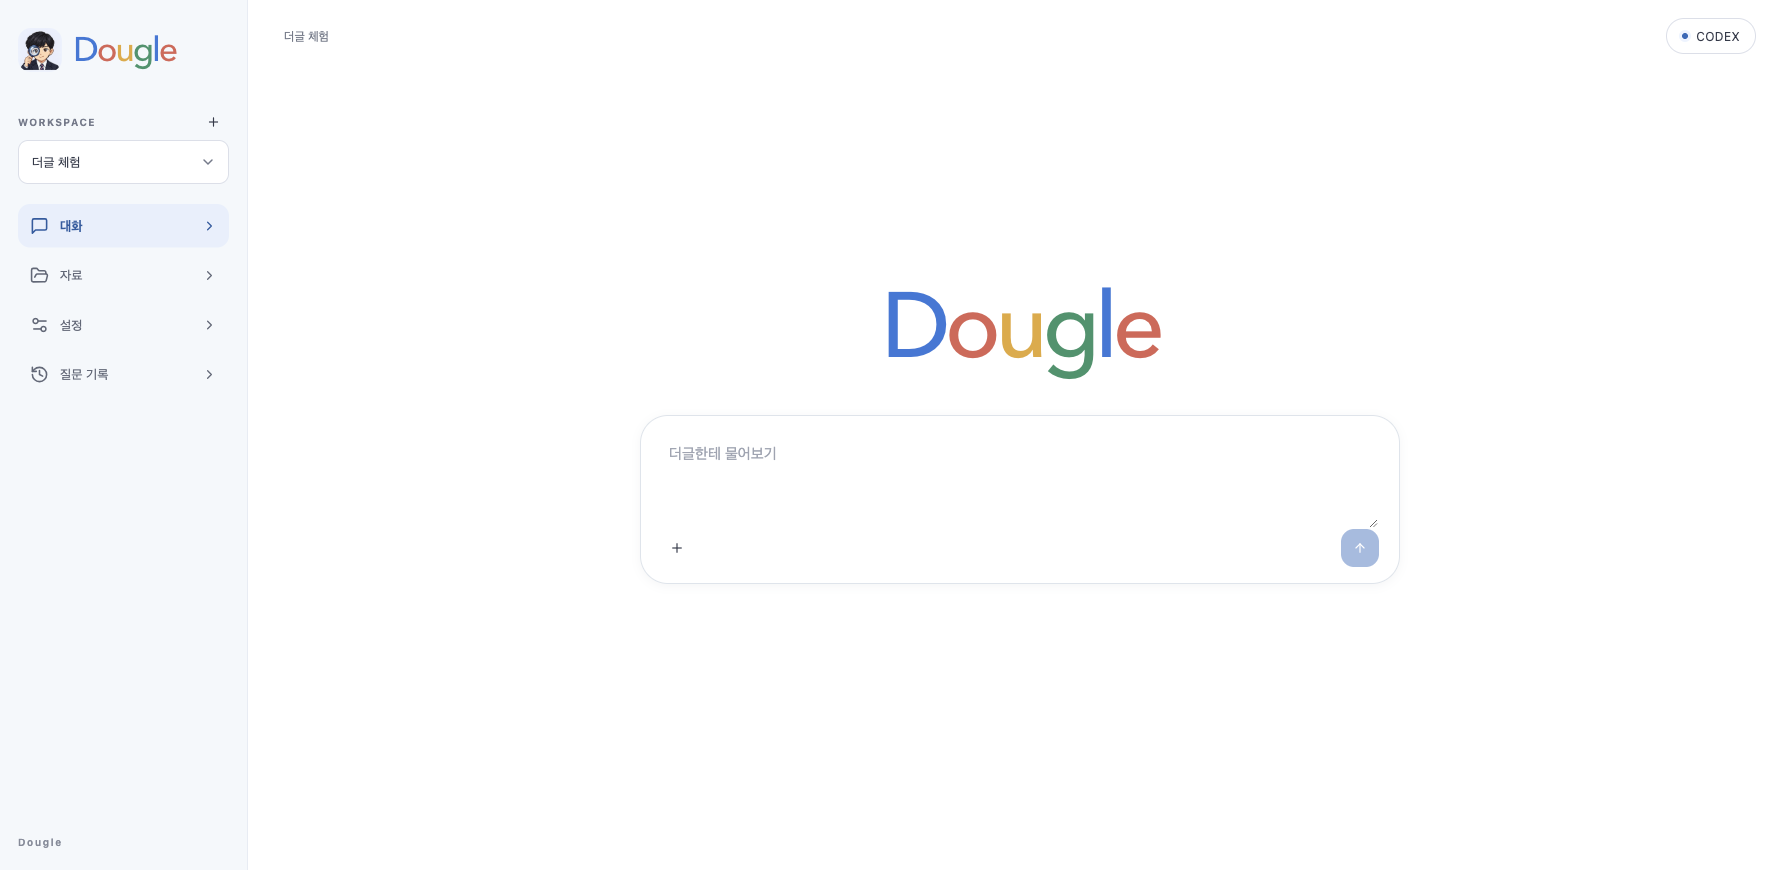
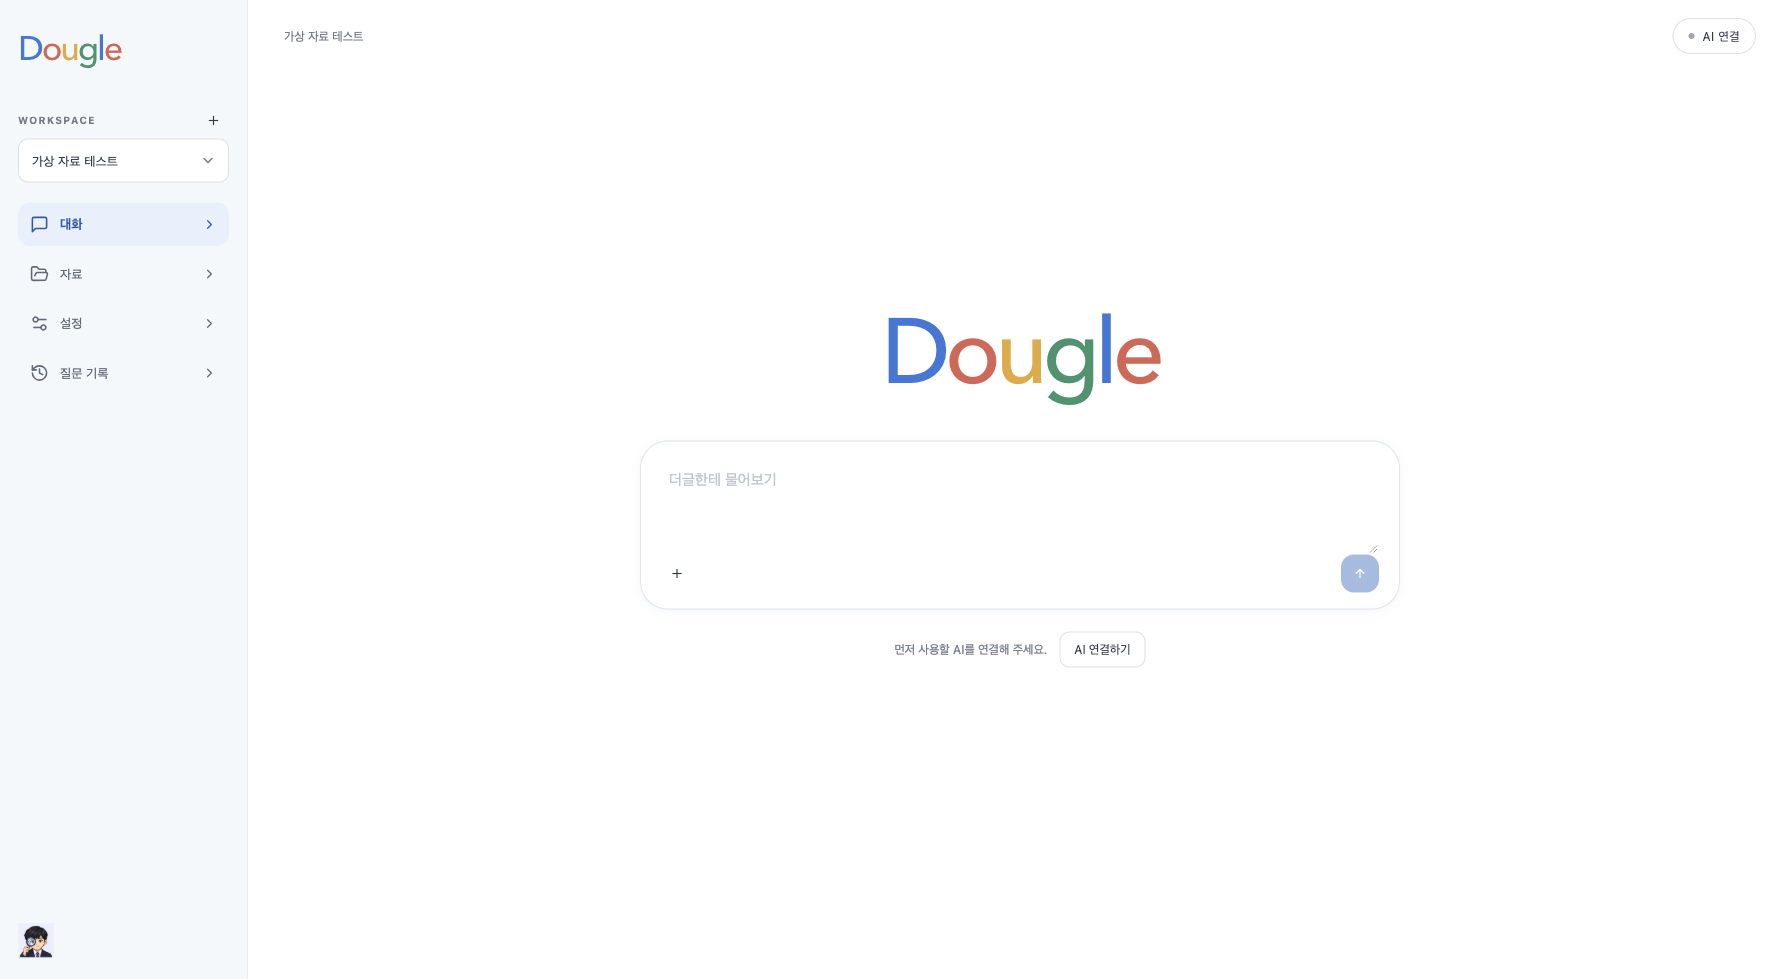
Verify simplified screens and update native UI regression expectations

diff --git a/desktop/src-tauri/examples/runtime_smoke.rs b/desktop/src-tauri/examples/runtime_smoke.rs
@@ -84,7 +84,8 @@ window.addEventListener('DOMContentLoaded', () => {
       await until(() => dialog.textContent.includes('실행 도구를 찾지 못했습니다.') || dialog.querySelector('[role="alert"]'));
       if (dialog.querySelector('[role="alert"]')) throw Error('AI connection UI mismatch');
       [...dialog.querySelectorAll('.provider-card')].find(button => button.textContent.includes('Codex')).click();
-      await until(() => dialog.textContent.includes('Codex · 아직 확인하지 않음'));
+      phase = 'Codex selected without redundant status';
+      await until(() => [...dialog.querySelectorAll('.provider-card')].some(button => button.textContent.includes('Codex') && button.getAttribute('aria-pressed') === 'true') && !dialog.querySelector('.connection-status') && connect() && !connect().disabled);
       phase = 'Codex private profile readiness';
       connect().click();
       await until(() => dialog.textContent.includes('로그인이 필요합니다.') || dialog.querySelector('[role="alert"]'));

diff --git a/docs/release-0.1.14-report.md b/docs/release-0.1.14-report.md
@@ -5,5 +5,11 @@
 - 연결 자료/업로드 목록 통합, 루트 중복 제거, 상단 전체 동기화.
 - 캐릭터 하단 이동, 짧은 삭제 확인, AI 연결·실행 경로 설명 정리.
 - 자동 갱신 정렬, 질문 기록의 새 질문 버튼 제거.
-- UI 전체 회귀·가상 자료 브라우저 검사·Intel 실행·ARM 정적 검사를 진행합니다.
+- UI 전체 **257건**, Rust **19건**, TypeScript/Vite/JAR 및 양 CPU 네이티브 빌드를 통과했습니다. 병렬 빌드 중 새 UI 검사 1건이 시간 초과됐고 단독 11건·전체 제한 병렬 257건 재검사를 통과했습니다. 시간 제한이나 앱 동작을 완화하지 않았습니다.
+- 실제 브라우저에서 업로드·연결 자료 통합 목록, 전체 동기화(실패 URL 이후 가상 폴더 성공), 내부 파일 탐색, 삭제 취소/확정, 자동 갱신 값 저장, 간결한 AI/경로 설정, 기록 화면의 새 질문 버튼 없음, 가로 넘침 없음을 확인했습니다. 가상 생성 호출 0회. 브라우저에서 OS 폴더 선택은 불가능하므로 폴더 fixture만 로컬 테스트 API로 등록했고 동기화/탐색은 실제 UI로 실행했습니다.
+- 네이티브 첫 검사에서는 제거한 ‘아직 확인하지 않음’을 기다리던 예전 검사가 실패했습니다. 제공자 선택·연결 버튼 활성·중복 상태 문구 없음으로 검증을 바꾸고 재검사합니다. 앱/승인/인증 검사를 완화하지 않았습니다.
+- Intel 실행·ARM 정적·공개 배포·로컬 재설치는 진행 중입니다.
 - 실제 외부 AI 호출·ARM 실기기·Apple 공증은 이번 검증 범위가 아닙니다.
+
+![통합 자료 화면](images/library-simple.png)
+![정렬한 자동 갱신 설정](images/settings-simple.png)

diff --git a/docs/library-simplification.md b/docs/library-simplification.md
@@ -11,3 +11,7 @@
 - 캐릭터는 왼쪽 아래로 옮겼고 질문 기록의 새 질문 버튼은 제거했습니다.
 
 DB/API·자료 저장 위치·인증·일회 전송 승인 계약은 변경하지 않습니다. 연결 확인은 모델의 실제 응답이나 사용 한도 보증이 아닙니다.
+
+![하나로 모은 자료 목록](images/library-simple.png)
+
+![간결한 AI 연결](images/chat-connection.png)
